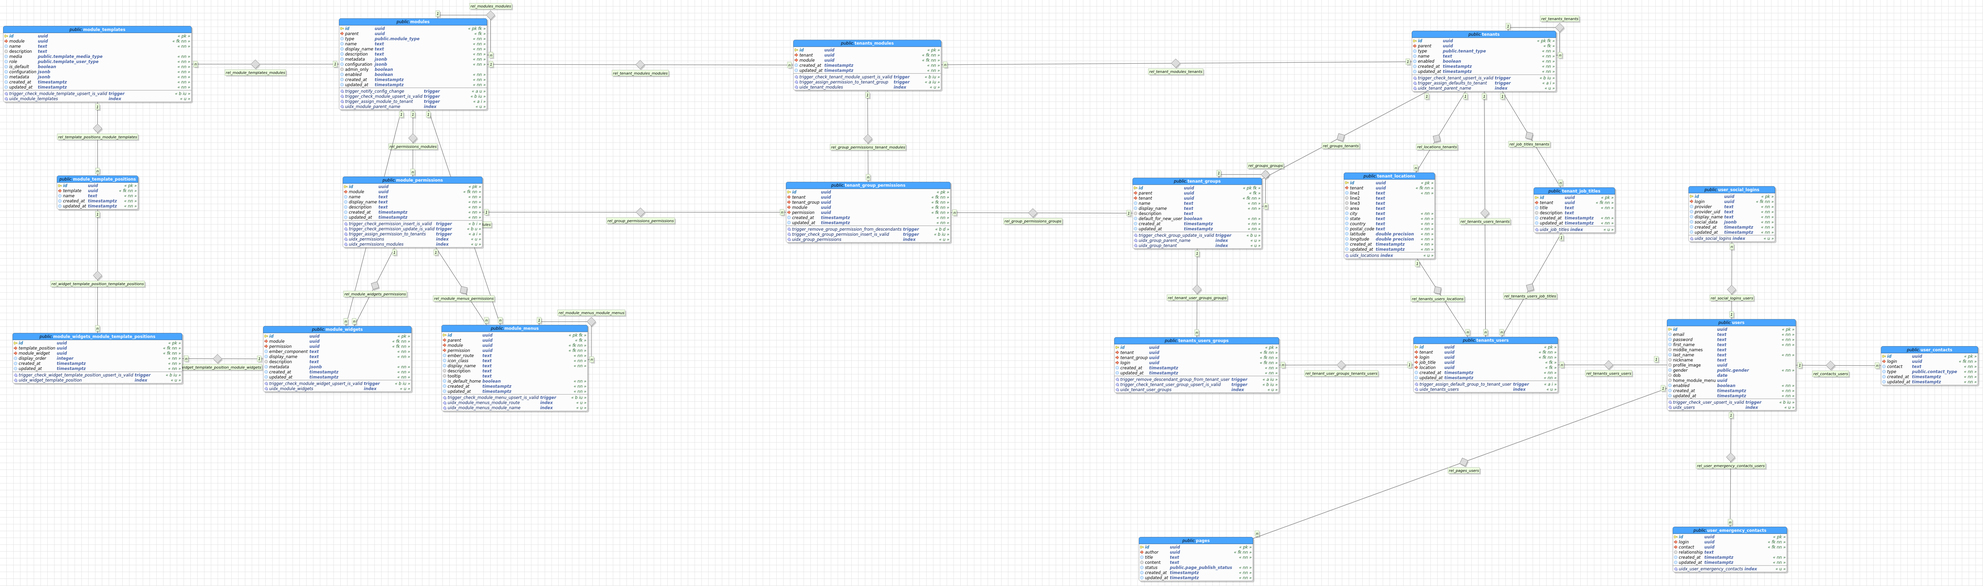
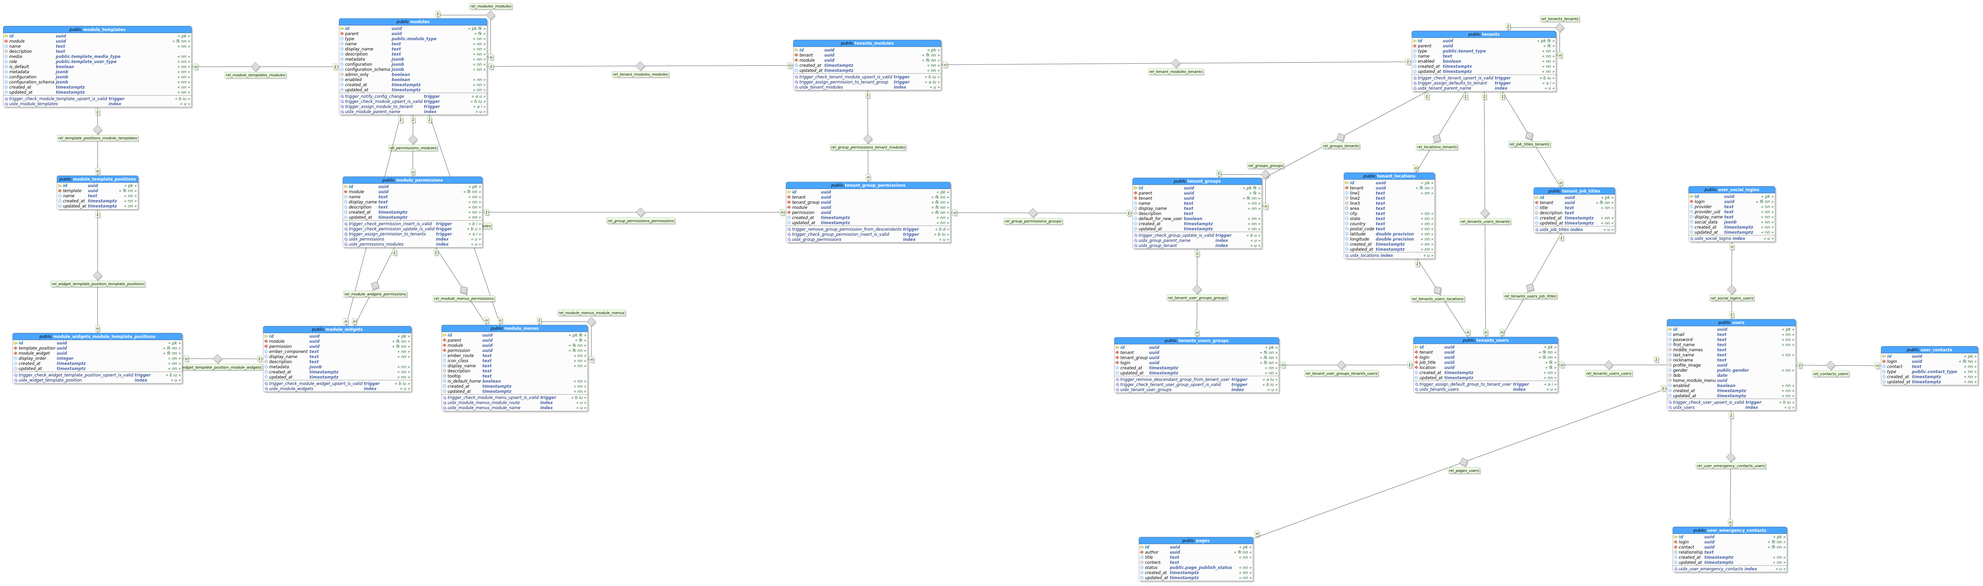
Fleshed out Module Manager component - template management yet to be done

diff --git a/knex_migrations/seeds/twyr_server_framework.js b/knex_migrations/seeds/twyr_server_framework.js
@@ -8,24 +8,24 @@ exports.seed = function(knex, Promise) {
 		if(webappId.rows.length)
 			return null;
 
-		return knex("modules").insert({ 'name': 'twyr-webapp', 'display_name': 'Twyr Web Application', 'description': 'The Twy\'r Web Application Module - the "Application Class" for the Web Application', 'metadata': { 'author': 'Twy\'r', 'version': '0.7.1', 'website': 'https://twyr.github.io', 'demo': 'https://twyr.github.io', 'documentation': 'https://twyr.github.io' } }).returning('id')
+		return knex("modules").insert({ 'name': 'twyr-webapp', 'display_name': 'Twyr Web Application', 'description': 'The Twy\'r Web Application Module - the "Application Class" for the Web Application', 'admin_only': true, 'metadata': { 'author': 'Twy\'r', 'version': '0.7.1', 'website': 'https://twyr.github.io', 'demo': 'https://twyr.github.io', 'documentation': 'https://twyr.github.io' } }).returning('id')
 		.then(function(parentId) {
 			parentId = parentId[0];
 			return Promise.all([
 				parentId,
-				knex("modules").insert({ 'parent': parentId, 'type': 'service', 'name': 'logger-service', 'display_name': 'Logger Service', 'description': 'The Twy\'r Web Application Logger Service', 'metadata': { 'author': 'Twy\'r', 'version': '0.7.1', 'website': 'https://twyr.github.io', 'demo': 'https://twyr.github.io', 'documentation': 'https://twyr.github.io' } }),
-				knex("modules").insert({ 'parent': parentId, 'type': 'service', 'name': 'cache-service', 'display_name': 'Cache Service', 'description': 'The Twy\'r Web Application Cache Service - based on Redis', 'metadata': { 'author': 'Twy\'r', 'version': '0.7.1', 'website': 'https://twyr.github.io', 'demo': 'https://twyr.github.io', 'documentation': 'https://twyr.github.io' } }),
-				knex("modules").insert({ 'parent': parentId, 'type': 'service', 'name': 'pubsub-service', 'display_name': 'Publish/Subscribe Service', 'description': 'The Twy\'r Web Application Publish/Subscribe Service - based on Ascoltatori', 'metadata': { 'author': 'Twy\'r', 'version': '0.7.1', 'website': 'https://twyr.github.io', 'demo': 'https://twyr.github.io', 'documentation': 'https://twyr.github.io' } }),
-				knex("modules").insert({ 'parent': parentId, 'type': 'service', 'name': 'api-service', 'display_name': 'API Service', 'description': 'The Twy\'r Web Application API Service - allows modules to expose interfaces for use by other modules without direct references to each other', 'metadata': { 'author': 'Twy\'r', 'version': '0.7.1', 'website': 'https://twyr.github.io', 'demo': 'https://twyr.github.io', 'documentation': 'https://twyr.github.io' } }),
-				knex("modules").insert({ 'parent': parentId, 'type': 'service', 'name': 'database-service', 'display_name': 'Database Service', 'description': 'The Twy\'r Web Application Database Service - built on top of Knex / Booksshelf and so supports MySQL, PostgreSQL, and a few others', 'metadata': { 'author': 'Twy\'r', 'version': '0.7.1', 'website': 'https://twyr.github.io', 'demo': 'https://twyr.github.io', 'documentation': 'https://twyr.github.io' } }),
-				knex("modules").insert({ 'parent': parentId, 'type': 'service', 'name': 'auth-service', 'display_name': 'Authentication Service', 'description': 'The Twy\'r Web Application Authentication Service - based on Passport and its infinite strategies', 'metadata': { 'author': 'Twy\'r', 'version': '0.7.1', 'website': 'https://twyr.github.io', 'demo': 'https://twyr.github.io', 'documentation': 'https://twyr.github.io' } }),
-				knex("modules").insert({ 'parent': parentId, 'type': 'service', 'name': 'express-service', 'display_name': 'Express Service', 'description': 'The Twy\'r Web Application Webserver Service - based on Express and node.js HTTP/HTTPS modules', 'metadata': { 'author': 'Twy\'r', 'version': '0.7.1', 'website': 'https://twyr.github.io', 'demo': 'https://twyr.github.io', 'documentation': 'https://twyr.github.io' } }),
-				knex("modules").insert({ 'parent': parentId, 'type': 'service', 'name': 'configuration-service', 'display_name': 'Configuration Service', 'description': 'The Twy\'r Web Application Configuration Service', 'metadata': { 'author': 'Twy\'r', 'version': '0.7.1', 'website': 'https://twyr.github.io', 'demo': 'https://twyr.github.io', 'documentation': 'https://twyr.github.io' } }).returning('id')
+				knex("modules").insert({ 'parent': parentId, 'type': 'service', 'name': 'logger-service', 'display_name': 'Logger Service', 'description': 'The Twy\'r Web Application Logger Service', 'admin_only': true, 'metadata': { 'author': 'Twy\'r', 'version': '0.7.1', 'website': 'https://twyr.github.io', 'demo': 'https://twyr.github.io', 'documentation': 'https://twyr.github.io' } }),
+				knex("modules").insert({ 'parent': parentId, 'type': 'service', 'name': 'cache-service', 'display_name': 'Cache Service', 'description': 'The Twy\'r Web Application Cache Service - based on Redis', 'admin_only': true, 'metadata': { 'author': 'Twy\'r', 'version': '0.7.1', 'website': 'https://twyr.github.io', 'demo': 'https://twyr.github.io', 'documentation': 'https://twyr.github.io' } }),
+				knex("modules").insert({ 'parent': parentId, 'type': 'service', 'name': 'pubsub-service', 'display_name': 'Publish/Subscribe Service', 'description': 'The Twy\'r Web Application Publish/Subscribe Service - based on Ascoltatori', 'admin_only': true, 'metadata': { 'author': 'Twy\'r', 'version': '0.7.1', 'website': 'https://twyr.github.io', 'demo': 'https://twyr.github.io', 'documentation': 'https://twyr.github.io' } }),
+				knex("modules").insert({ 'parent': parentId, 'type': 'service', 'name': 'api-service', 'display_name': 'API Service', 'description': 'The Twy\'r Web Application API Service - allows modules to expose interfaces for use by other modules without direct references to each other', 'admin_only': true, 'metadata': { 'author': 'Twy\'r', 'version': '0.7.1', 'website': 'https://twyr.github.io', 'demo': 'https://twyr.github.io', 'documentation': 'https://twyr.github.io' } }),
+				knex("modules").insert({ 'parent': parentId, 'type': 'service', 'name': 'database-service', 'display_name': 'Database Service', 'description': 'The Twy\'r Web Application Database Service - built on top of Knex / Booksshelf and so supports MySQL, PostgreSQL, and a few others', 'admin_only': true, 'metadata': { 'author': 'Twy\'r', 'version': '0.7.1', 'website': 'https://twyr.github.io', 'demo': 'https://twyr.github.io', 'documentation': 'https://twyr.github.io' } }),
+				knex("modules").insert({ 'parent': parentId, 'type': 'service', 'name': 'auth-service', 'display_name': 'Authentication Service', 'description': 'The Twy\'r Web Application Authentication Service - based on Passport and its infinite strategies', 'admin_only': true, 'metadata': { 'author': 'Twy\'r', 'version': '0.7.1', 'website': 'https://twyr.github.io', 'demo': 'https://twyr.github.io', 'documentation': 'https://twyr.github.io' } }),
+				knex("modules").insert({ 'parent': parentId, 'type': 'service', 'name': 'express-service', 'display_name': 'Express Service', 'description': 'The Twy\'r Web Application Webserver Service - based on Express and node.js HTTP/HTTPS modules', 'admin_only': true, 'metadata': { 'author': 'Twy\'r', 'version': '0.7.1', 'website': 'https://twyr.github.io', 'demo': 'https://twyr.github.io', 'documentation': 'https://twyr.github.io' } }),
+				knex("modules").insert({ 'parent': parentId, 'type': 'service', 'name': 'configuration-service', 'display_name': 'Configuration Service', 'description': 'The Twy\'r Web Application Configuration Service', 'admin_only': true, 'metadata': { 'author': 'Twy\'r', 'version': '0.7.1', 'website': 'https://twyr.github.io', 'demo': 'https://twyr.github.io', 'documentation': 'https://twyr.github.io' } }).returning('id')
 				.then(function(configSrvcId) {
 					configSrvcId = configSrvcId[0];
 					return Promise.all([
-						knex("modules").insert({ 'parent': configSrvcId, 'type': 'service', 'name': 'file-configuration-service', 'display_name': 'File Configuration Service', 'description': 'The Twy\'r Web Application Filesystem-based Configuration Service', 'metadata': { 'author': 'Twy\'r', 'version': '0.7.1', 'website': 'https://twyr.github.io', 'demo': 'https://twyr.github.io', 'documentation': 'https://twyr.github.io' } }),
-						knex("modules").insert({ 'parent': configSrvcId, 'type': 'service', 'name': 'database-configuration-service', 'display_name': 'Database Configuration Service', 'description': 'The Twy\'r Web Application Database-based Configuration Service', 'metadata': { 'author': 'Twy\'r', 'version': '0.7.1', 'website': 'https://twyr.github.io', 'demo': 'https://twyr.github.io', 'documentation': 'https://twyr.github.io' } })
+						knex("modules").insert({ 'parent': configSrvcId, 'type': 'service', 'name': 'file-configuration-service', 'display_name': 'File Configuration Service', 'description': 'The Twy\'r Web Application Filesystem-based Configuration Service', 'admin_only': true, 'metadata': { 'author': 'Twy\'r', 'version': '0.7.1', 'website': 'https://twyr.github.io', 'demo': 'https://twyr.github.io', 'documentation': 'https://twyr.github.io' } }),
+						knex("modules").insert({ 'parent': configSrvcId, 'type': 'service', 'name': 'database-configuration-service', 'display_name': 'Database Configuration Service', 'description': 'The Twy\'r Web Application Database-based Configuration Service', 'admin_only': true, 'metadata': { 'author': 'Twy\'r', 'version': '0.7.1', 'website': 'https://twyr.github.io', 'demo': 'https://twyr.github.io', 'documentation': 'https://twyr.github.io' } })
 					]);
 				})
 			]);
@@ -46,7 +46,7 @@ exports.seed = function(knex, Promise) {
 
 			return Promise.all([
 				parentId,
-				knex("module_templates").insert({ 'module': parentId, 'name': 'bhairavi', 'description': 'The Twy\'r Web Application default public template', 'media_type': 'all', 'user_type': 'public', 'is_default': true, 'configuration': { 'title': 'Twy\'r Web Application: Bhairavi Template' }, 'metadata': { 'author': 'Twy\'r', 'version': '0.7.1', 'website': 'https://twyr.github.io', 'demo': 'https://twyr.github.io', 'documentation': 'https://twyr.github.io' } }).returning('id')
+				knex("module_templates").insert({ 'module': parentId, 'name': 'bhairavi', 'description': 'The Twy\'r Web Application default public template', 'media': 'all', 'role': 'public', 'is_default': true, 'configuration': { 'title': 'Twy\'r Web Application: Bhairavi Template' }, 'metadata': { 'author': 'Twy\'r', 'version': '0.7.1', 'website': 'https://twyr.github.io', 'demo': 'https://twyr.github.io', 'documentation': 'https://twyr.github.io' } }).returning('id')
 				.then(function(templateId) {
 					templateId = templateId[0];
 					return Promise.all([
@@ -66,7 +66,7 @@ exports.seed = function(knex, Promise) {
 						knex("module_template_positions").insert({ 'template': templateId, 'name': 'footer' })
 					]);
 				}),
-				knex("module_templates").insert({ 'module': parentId, 'name': 'hamsadhvani', 'description': 'The Twy\'r Web Application default registered template', 'media_type': 'all', 'user_type': 'registered', 'is_default': true, 'configuration': { 'title': 'Twy\'r Web Application: Hamsadhvani Template' }, 'metadata': { 'author': 'Twy\'r', 'version': '0.7.1', 'website': 'https://twyr.github.io', 'demo': 'https://twyr.github.io', 'documentation': 'https://twyr.github.io' } }).returning('id')
+				knex("module_templates").insert({ 'module': parentId, 'name': 'hamsadhvani', 'description': 'The Twy\'r Web Application default registered template', 'media': 'all', 'role': 'registered', 'is_default': true, 'configuration': { 'title': 'Twy\'r Web Application: Hamsadhvani Template' }, 'metadata': { 'author': 'Twy\'r', 'version': '0.7.1', 'website': 'https://twyr.github.io', 'demo': 'https://twyr.github.io', 'documentation': 'https://twyr.github.io' } }).returning('id')
 				.then(function(templateId) {
 					templateId = templateId[0];
 					return Promise.all([

diff --git a/app/modules/components/modules/component.js b/app/modules/components/modules/component.js
@@ -63,6 +63,10 @@ var modulesComponent = prime({
 						return this.hasMany(self.$ModuleMenuModel, 'module');
 					},
 
+					'templates': function() {
+						return this.hasMany(self.$ModuleTemplateModel, 'module');
+					},
+
 					'parent': function() {
 						return this.belongsTo(self.$ModuleModel, 'parent');
 					},
@@ -142,6 +146,21 @@ var modulesComponent = prime({
 				})
 			});
 
+			Object.defineProperty(self, '$ModuleTemplateModel', {
+				'__proto__': null,
+				'writable': true,
+
+				'value': dbSrvc.Model.extend({
+					'tableName': 'module_templates',
+					'idAttribute': 'id',
+					'hasTimestamps': true,
+
+					'module': function() {
+						return this.belongsTo(self.$ModuleModel, 'module');
+					}
+				})
+			});
+
 			configSrvc.getModuleIdAsync(self)
 			.then(function(id) {
 				return dbSrvc.knex.raw('SELECT id FROM module_permissions WHERE module = ? AND name = ?', [id, 'module-manager']);
@@ -173,6 +192,7 @@ var modulesComponent = prime({
 		this.$router.get('/module-permissions/:id', this._getModulePermission.bind(this));
 		this.$router.get('/module-widgets/:id', this._getModuleWidget.bind(this));
 		this.$router.get('/module-menus/:id', this._getModuleMenu.bind(this));
+		this.$router.get('/module-templates/:id', this._getModuleTemplate.bind(this));
 
 		this.$router.get('/:id', this._getModule.bind(this));
 		this.$router.patch('/:id', this._updateModule.bind(this));
@@ -362,6 +382,43 @@ var modulesComponent = prime({
 		});
 	},
 
+	'_getModuleTemplate': function(request, response, next) {
+		var self = this,
+			dbSrvc = self.dependencies['database-service'],
+			loggerSrvc = self.dependencies['logger-service'];
+
+		loggerSrvc.debug('Servicing request ' + request.method + ' "' + request.originalUrl + '":\nQuery: ', request.query, '\nParams: ', request.params, '\nBody: ', request.body);
+		response.type('application/javascript');
+
+		self._checkPermissionAsync(request.user, self['$moduleManagerPermissionId'])
+		.then(function(hasPermission) {
+			if(!hasPermission) {
+				throw new Error('Unauthorized Access');
+			}
+
+			return new self.$ModuleTemplateModel({ 'id': request.params.id })
+			.fetch({ 'withRelated': ['module'] });
+		})
+		.then(function(moduleTemplate) {
+			moduleTemplate = self['$jsonApiMapper'].map(moduleTemplate, 'module-templates');
+			delete moduleTemplate.included;
+
+			response.status(200).json(moduleTemplate);
+			return null;
+		})
+		.catch(function(err) {
+			loggerSrvc.error('Servicing request ' + request.method + ' "' + request.originalUrl + '":\nQuery: ', request.query, '\nParams: ', request.params, '\nBody: ', request.body, '\nError: ', err);
+			response.status(422).json({
+				'errors': [{
+					'status': 422,
+					'source': { 'pointer': '/data/id' },
+					'title': 'Get module error',
+					'detail': (err.stack.split('\n', 1)[0]).replace('error: ', '').trim()
+				}]
+			});
+		});
+	},
+
 	'_getModule': function(request, response, next) {
 		var self = this,
 			dbSrvc = self.dependencies['database-service'],
@@ -377,17 +434,19 @@ var modulesComponent = prime({
 			}
 
 			return new self.$ModuleModel({ 'id': request.params.id })
-			.fetch({ 'withRelated': ['permissions', 'widgets', 'menus'] });
+			.fetch({ 'withRelated': ['permissions', 'widgets', 'menus', 'templates'] });
 		})
 		.then(function(moduleData) {
 			var configuration = JSON.stringify(moduleData.get('configuration')),
+				configurationSchema = JSON.stringify(moduleData.get('configuration_schema')),
 				metadata = JSON.stringify(moduleData.get('metadata'));
 
 			moduleData = self['$jsonApiMapper'].map(moduleData, 'modules');
 			delete moduleData.included;
 
-			moduleData.data.attributes.configuration = configuration;
 			moduleData.data.attributes.metadata = metadata;
+			moduleData.data.attributes.configuration = configuration;
+			moduleData.data.attributes.configuration_schema = configurationSchema;
 
 			moduleData.data.relationships.permissions.data.forEach(function(modulePermission) {
 				modulePermission.type = 'module-permissions';
@@ -399,6 +458,10 @@ var modulesComponent = prime({
 
 			moduleData.data.relationships.menus.data.forEach(function(moduleMenu) {
 				moduleMenu.type = 'module-menus';
+			});
+
+			moduleData.data.relationships.templates.data.forEach(function(moduleTmpl) {
+				moduleTmpl.type = 'module-templates';
 			});
 
 			response.status(200).json(moduleData);

diff --git a/knex_migrations/seeds/twyr_server_framework_3.js b/knex_migrations/seeds/twyr_server_framework_3.js
@@ -17,10 +17,10 @@ exports.seed = function(knex, Promise) {
 		if(existingComponentId.rows.length)
 			return null;
 
-		return knex("modules").insert({ 'parent': webappId, 'type': 'component', 'name': 'profiles', 'display_name': 'Profile Manager', 'description': 'The Twy\'r Web Application User Profile Management Component', 'metadata': { 'author': 'Twy\'r', 'version': '0.7.1', 'website': 'https://twyr.github.io', 'demo': 'https://twyr.github.io', 'documentation': 'https://twyr.github.io' } }).returning('id')
+		return knex("modules").insert({ 'parent': webappId, 'type': 'component', 'name': 'profiles', 'display_name': 'Profile Manager', 'description': 'The Twy\'r Web Application User Profile Management Component', 'admin_only': true, 'metadata': { 'author': 'Twy\'r', 'version': '0.7.1', 'website': 'https://twyr.github.io', 'demo': 'https://twyr.github.io', 'documentation': 'https://twyr.github.io' } }).returning('id')
 		.then(function(sessionComponentId) {
 			componentId = sessionComponentId[0];
-			return knex("module_templates").insert({ 'module': componentId, 'name': 'profiles-default', 'description': 'The default Profile Management Template', 'media_type': 'all', 'user_type': 'registered', 'is_default': true, 'metadata': { 'author': 'Twy\'r', 'version': '0.7.1', 'website': 'https://twyr.github.io', 'demo': 'https://twyr.github.io', 'documentation': 'https://twyr.github.io' } }).returning('id');
+			return knex("module_templates").insert({ 'module': componentId, 'name': 'profiles-default', 'description': 'The default Profile Management Template', 'media': 'all', 'role': 'registered', 'is_default': true, 'metadata': { 'author': 'Twy\'r', 'version': '0.7.1', 'website': 'https://twyr.github.io', 'demo': 'https://twyr.github.io', 'documentation': 'https://twyr.github.io' } }).returning('id');
 		})
 		.then(function(templateId) {
 			templateId = templateId[0];
@@ -35,7 +35,7 @@ exports.seed = function(knex, Promise) {
 		})
 		.then(function(profileWidgetId) {
 			widgetId = profileWidgetId[0];
-			return knex.raw('SELECT id FROM module_template_positions WHERE template = (SELECT id FROM module_templates WHERE module = ? AND user_type = \'registered\') AND name = \'settings\'', [webappId]);
+			return knex.raw('SELECT id FROM module_template_positions WHERE template = (SELECT id FROM module_templates WHERE module = ? AND role = \'registered\') AND name = \'settings\'', [webappId]);
 		})
 		.then(function(tmplPositionId) {
 			tmplPositionId = tmplPositionId.rows[0].id;

diff --git a/knex_migrations/seeds/twyr_server_framework_2.js b/knex_migrations/seeds/twyr_server_framework_2.js
@@ -17,7 +17,7 @@ exports.seed = function(knex, Promise) {
 		if(existingComponentId.rows.length)
 			return null;
 
-		return knex("modules").insert({ 'parent': webappId, 'type': 'component', 'name': 'session', 'display_name': 'Session', 'description': 'The Twy\'r Web Application Session Management Component', 'metadata': { 'author': 'Twy\'r', 'version': '0.7.1', 'website': 'https://twyr.github.io', 'demo': 'https://twyr.github.io', 'documentation': 'https://twyr.github.io' } }).returning('id')
+		return knex("modules").insert({ 'parent': webappId, 'type': 'component', 'name': 'session', 'display_name': 'Session', 'description': 'The Twy\'r Web Application Session Management Component', 'admin_only': true, 'metadata': { 'author': 'Twy\'r', 'version': '0.7.1', 'website': 'https://twyr.github.io', 'demo': 'https://twyr.github.io', 'documentation': 'https://twyr.github.io' } }).returning('id')
 		.then(function(sessionComponentId) {
 			componentId = sessionComponentId[0];
 			return knex.raw('SELECT id FROM module_permissions WHERE module = ? AND name = ?', [webappId, 'public']);
@@ -28,7 +28,7 @@ exports.seed = function(knex, Promise) {
 		})
 		.then(function(loginComponentId) {
 			loginWidgetId = loginComponentId[0];
-			return knex.raw('SELECT id FROM module_template_positions WHERE template = (SELECT id FROM module_templates WHERE module = ? AND user_type = \'public\') AND name = \'right-sidebar\'', [webappId]);
+			return knex.raw('SELECT id FROM module_template_positions WHERE template = (SELECT id FROM module_templates WHERE module = ? AND role = \'public\') AND name = \'right-sidebar\'', [webappId]);
 		})
 		.then(function(tmplPositionId) {
 			tmplPositionId = tmplPositionId.rows[0].id;
@@ -43,7 +43,7 @@ exports.seed = function(knex, Promise) {
 		})
 		.then(function(logoutComponentId) {
 			logoutWidgetId = logoutComponentId[0];
-			return knex.raw('SELECT id FROM module_template_positions WHERE template = (SELECT id FROM module_templates WHERE module = ? AND user_type = \'registered\') AND name = \'settings\'', [webappId]);
+			return knex.raw('SELECT id FROM module_template_positions WHERE template = (SELECT id FROM module_templates WHERE module = ? AND role = \'registered\') AND name = \'settings\'', [webappId]);
 		})
 		.then(function(tmplPositionId) {
 			tmplPositionId = tmplPositionId.rows[0].id;

diff --git a/knex_migrations/seeds/twyr_server_framework_4.js b/knex_migrations/seeds/twyr_server_framework_4.js
@@ -17,10 +17,10 @@ exports.seed = function(knex, Promise) {
 		if(existingComponentId.rows.length)
 			return null;
 
-		return knex("modules").insert({ 'parent': webappId, 'type': 'component', 'name': 'homepage', 'display_name': 'Homepage Manager', 'description': 'The Twy\'r Web Application Homepage Management Component', 'metadata': { 'author': 'Twy\'r', 'version': '0.7.1', 'website': 'https://twyr.github.io', 'demo': 'https://twyr.github.io', 'documentation': 'https://twyr.github.io' } }).returning('id')
+		return knex("modules").insert({ 'parent': webappId, 'type': 'component', 'name': 'homepage', 'display_name': 'Homepage Manager', 'description': 'The Twy\'r Web Application Homepage Management Component', 'admin_only': true, 'metadata': { 'author': 'Twy\'r', 'version': '0.7.1', 'website': 'https://twyr.github.io', 'demo': 'https://twyr.github.io', 'documentation': 'https://twyr.github.io' } }).returning('id')
 		.then(function(sessionComponentId) {
 			componentId = sessionComponentId[0];
-			return knex("module_templates").insert({ 'module': componentId, 'name': 'homepage-home', 'description': 'The default Homepage Management Template', 'media_type': 'all', 'user_type': 'all', 'is_default': true, 'metadata': { 'author': 'Twy\'r', 'version': '0.7.1', 'website': 'https://twyr.github.io', 'demo': 'https://twyr.github.io', 'documentation': 'https://twyr.github.io' } }).returning('id');
+			return knex("module_templates").insert({ 'module': componentId, 'name': 'homepage-home', 'description': 'The default Homepage Template', 'media': 'all', 'role': 'all', 'is_default': true, 'metadata': { 'author': 'Twy\'r', 'version': '0.7.1', 'website': 'https://twyr.github.io', 'demo': 'https://twyr.github.io', 'documentation': 'https://twyr.github.io' } }).returning('id');
 		})
 		.then(function() {
 			return knex.raw('SELECT id FROM module_permissions WHERE module = ? AND name = ?', [webappId, 'public']);

diff --git a/knex_migrations/migrations/20160426165450_twyr_webapp_schema.js b/knex_migrations/migrations/20160426165450_twyr_webapp_schema.js
@@ -30,6 +30,7 @@ exports.up = function(knex, Promise) {
 				modTbl.text('description').notNullable().defaultTo('Another Twyr Module');
 				modTbl.jsonb('metadata').notNullable().defaultTo('{}');
 				modTbl.jsonb('configuration').notNullable().defaultTo('{}');
+				modTbl.jsonb('configuration_schema').notNullable().defaultTo('{}');
 				modTbl.boolean('admin_only').notNullable().defaultTo(false);
 				modTbl.boolean('enabled').notNullable().defaultTo(true);
 				modTbl.timestamp('created_at').notNullable().defaultTo(knex.fn.now());
@@ -101,11 +102,12 @@ exports.up = function(knex, Promise) {
 				modTmplTbl.uuid('module').notNullable().references('id').inTable('modules').onDelete('CASCADE').onUpdate('CASCADE');
 				modTmplTbl.text('name').notNullable();
 				modTmplTbl.text('description').notNullable().defaultTo('Another Module Template');
-				modTmplTbl.specificType('media_type', 'public.template_media_type').notNullable().defaultTo('all');
-				modTmplTbl.specificType('user_type', 'public.template_user_type').notNullable().defaultTo('all');
+				modTmplTbl.specificType('media', 'public.template_media_type').notNullable().defaultTo('all');
+				modTmplTbl.specificType('role', 'public.template_user_type').notNullable().defaultTo('all');
 				modTmplTbl.boolean('is_default').notNullable().defaultTo(false);
-				modTmplTbl.jsonb('configuration').notNullable().defaultTo('{}');
 				modTmplTbl.jsonb('metadata').notNullable().defaultTo('{}');
+				modTmplTbl.jsonb('configuration').notNullable().defaultTo('{}');
+				modTmplTbl.jsonb('configuration_schema').notNullable().defaultTo('{}');
 				modTmplTbl.timestamp('created_at').notNullable().defaultTo(knex.fn.now());
 				modTmplTbl.timestamp('updated_at').notNullable().defaultTo(knex.fn.now());
 				modTmplTbl.unique(['module', 'name']);

diff --git a/knex_migrations/seeds/twyr_server_framework_5.js b/knex_migrations/seeds/twyr_server_framework_5.js
@@ -20,8 +20,8 @@ exports.seed = function(knex, Promise) {
 		.then(function(pagesComponentId) {
 			componentId = pagesComponentId[0];
 			return Promise.all([
-				knex("module_templates").insert({ 'module': componentId, 'name': 'pages-default', 'description': 'The default Page Management Template', 'media_type': 'all', 'user_type': 'registered', 'is_default': true, 'metadata': { 'author': 'Twy\'r', 'version': '0.7.1', 'website': 'https://twyr.github.io', 'demo': 'https://twyr.github.io', 'documentation': 'https://twyr.github.io' } }),
-				knex("module_templates").insert({ 'module': componentId, 'name': 'page-view', 'description': 'The default Page View Template', 'media_type': 'all', 'user_type': 'all', 'is_default': true, 'metadata': { 'author': 'Twy\'r', 'version': '0.7.1', 'website': 'https://twyr.github.io', 'demo': 'https://twyr.github.io', 'documentation': 'https://twyr.github.io' } })
+				knex("module_templates").insert({ 'module': componentId, 'name': 'pages-default', 'description': 'The default Page Management Template', 'media': 'all', 'role': 'registered', 'is_default': true, 'metadata': { 'author': 'Twy\'r', 'version': '0.7.1', 'website': 'https://twyr.github.io', 'demo': 'https://twyr.github.io', 'documentation': 'https://twyr.github.io' } }),
+				knex("module_templates").insert({ 'module': componentId, 'name': 'page-view', 'description': 'The default Page View Template', 'media': 'all', 'role': 'all', 'is_default': true, 'metadata': { 'author': 'Twy\'r', 'version': '0.7.1', 'website': 'https://twyr.github.io', 'demo': 'https://twyr.github.io', 'documentation': 'https://twyr.github.io' } })
 			]);
 		})
 		.then(function() {

diff --git a/knex_migrations/seeds/twyr_server_framework_6.js b/knex_migrations/seeds/twyr_server_framework_6.js
@@ -20,7 +20,7 @@ exports.seed = function(knex, Promise) {
 		.then(function(pagesComponentId) {
 			componentId = pagesComponentId[0];
 			return Promise.all([
-				knex("module_templates").insert({ 'module': componentId, 'name': 'modules-default', 'description': 'The default Module Management Template', 'media_type': 'all', 'user_type': 'registered', 'is_default': true, 'metadata': { 'author': 'Twy\'r', 'version': '0.7.1', 'website': 'https://twyr.github.io', 'demo': 'https://twyr.github.io', 'documentation': 'https://twyr.github.io' } }),
+				knex("module_templates").insert({ 'module': componentId, 'name': 'modules-default', 'description': 'The default Module Management Template', 'media': 'all', 'role': 'registered', 'is_default': true, 'metadata': { 'author': 'Twy\'r', 'version': '0.7.1', 'website': 'https://twyr.github.io', 'demo': 'https://twyr.github.io', 'documentation': 'https://twyr.github.io' } }),
 			]);
 		})
 		.then(function() {
